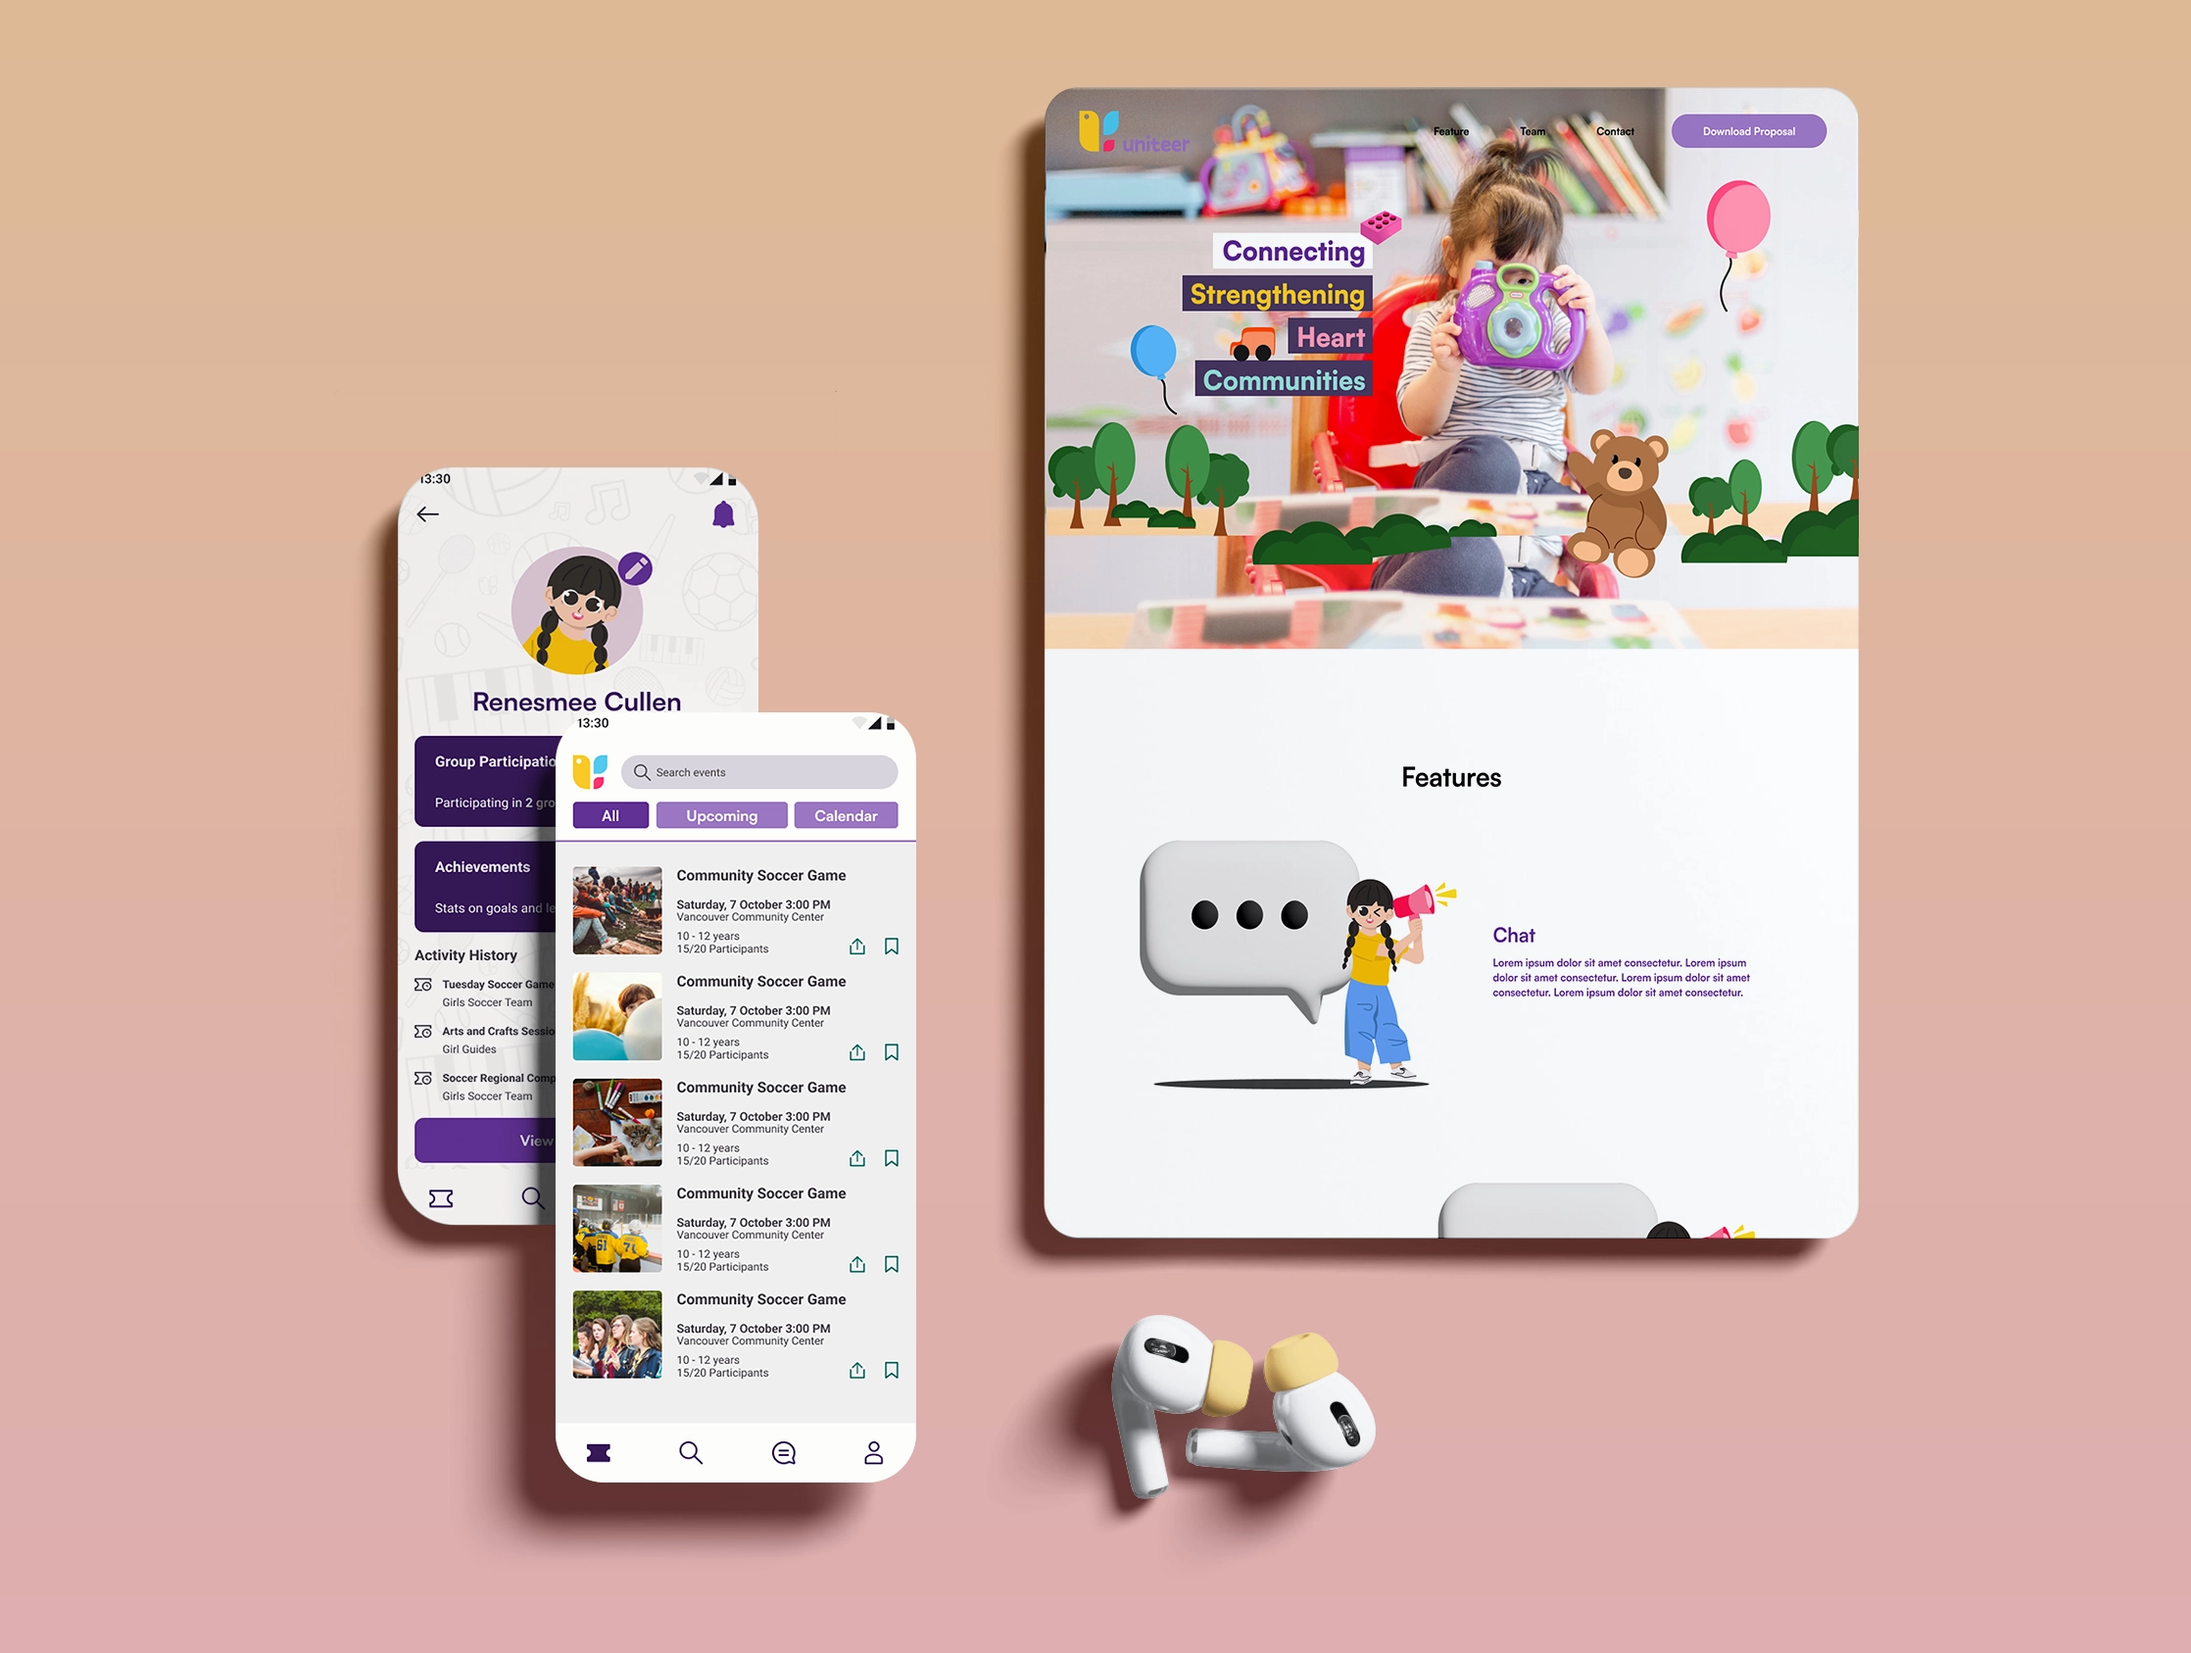
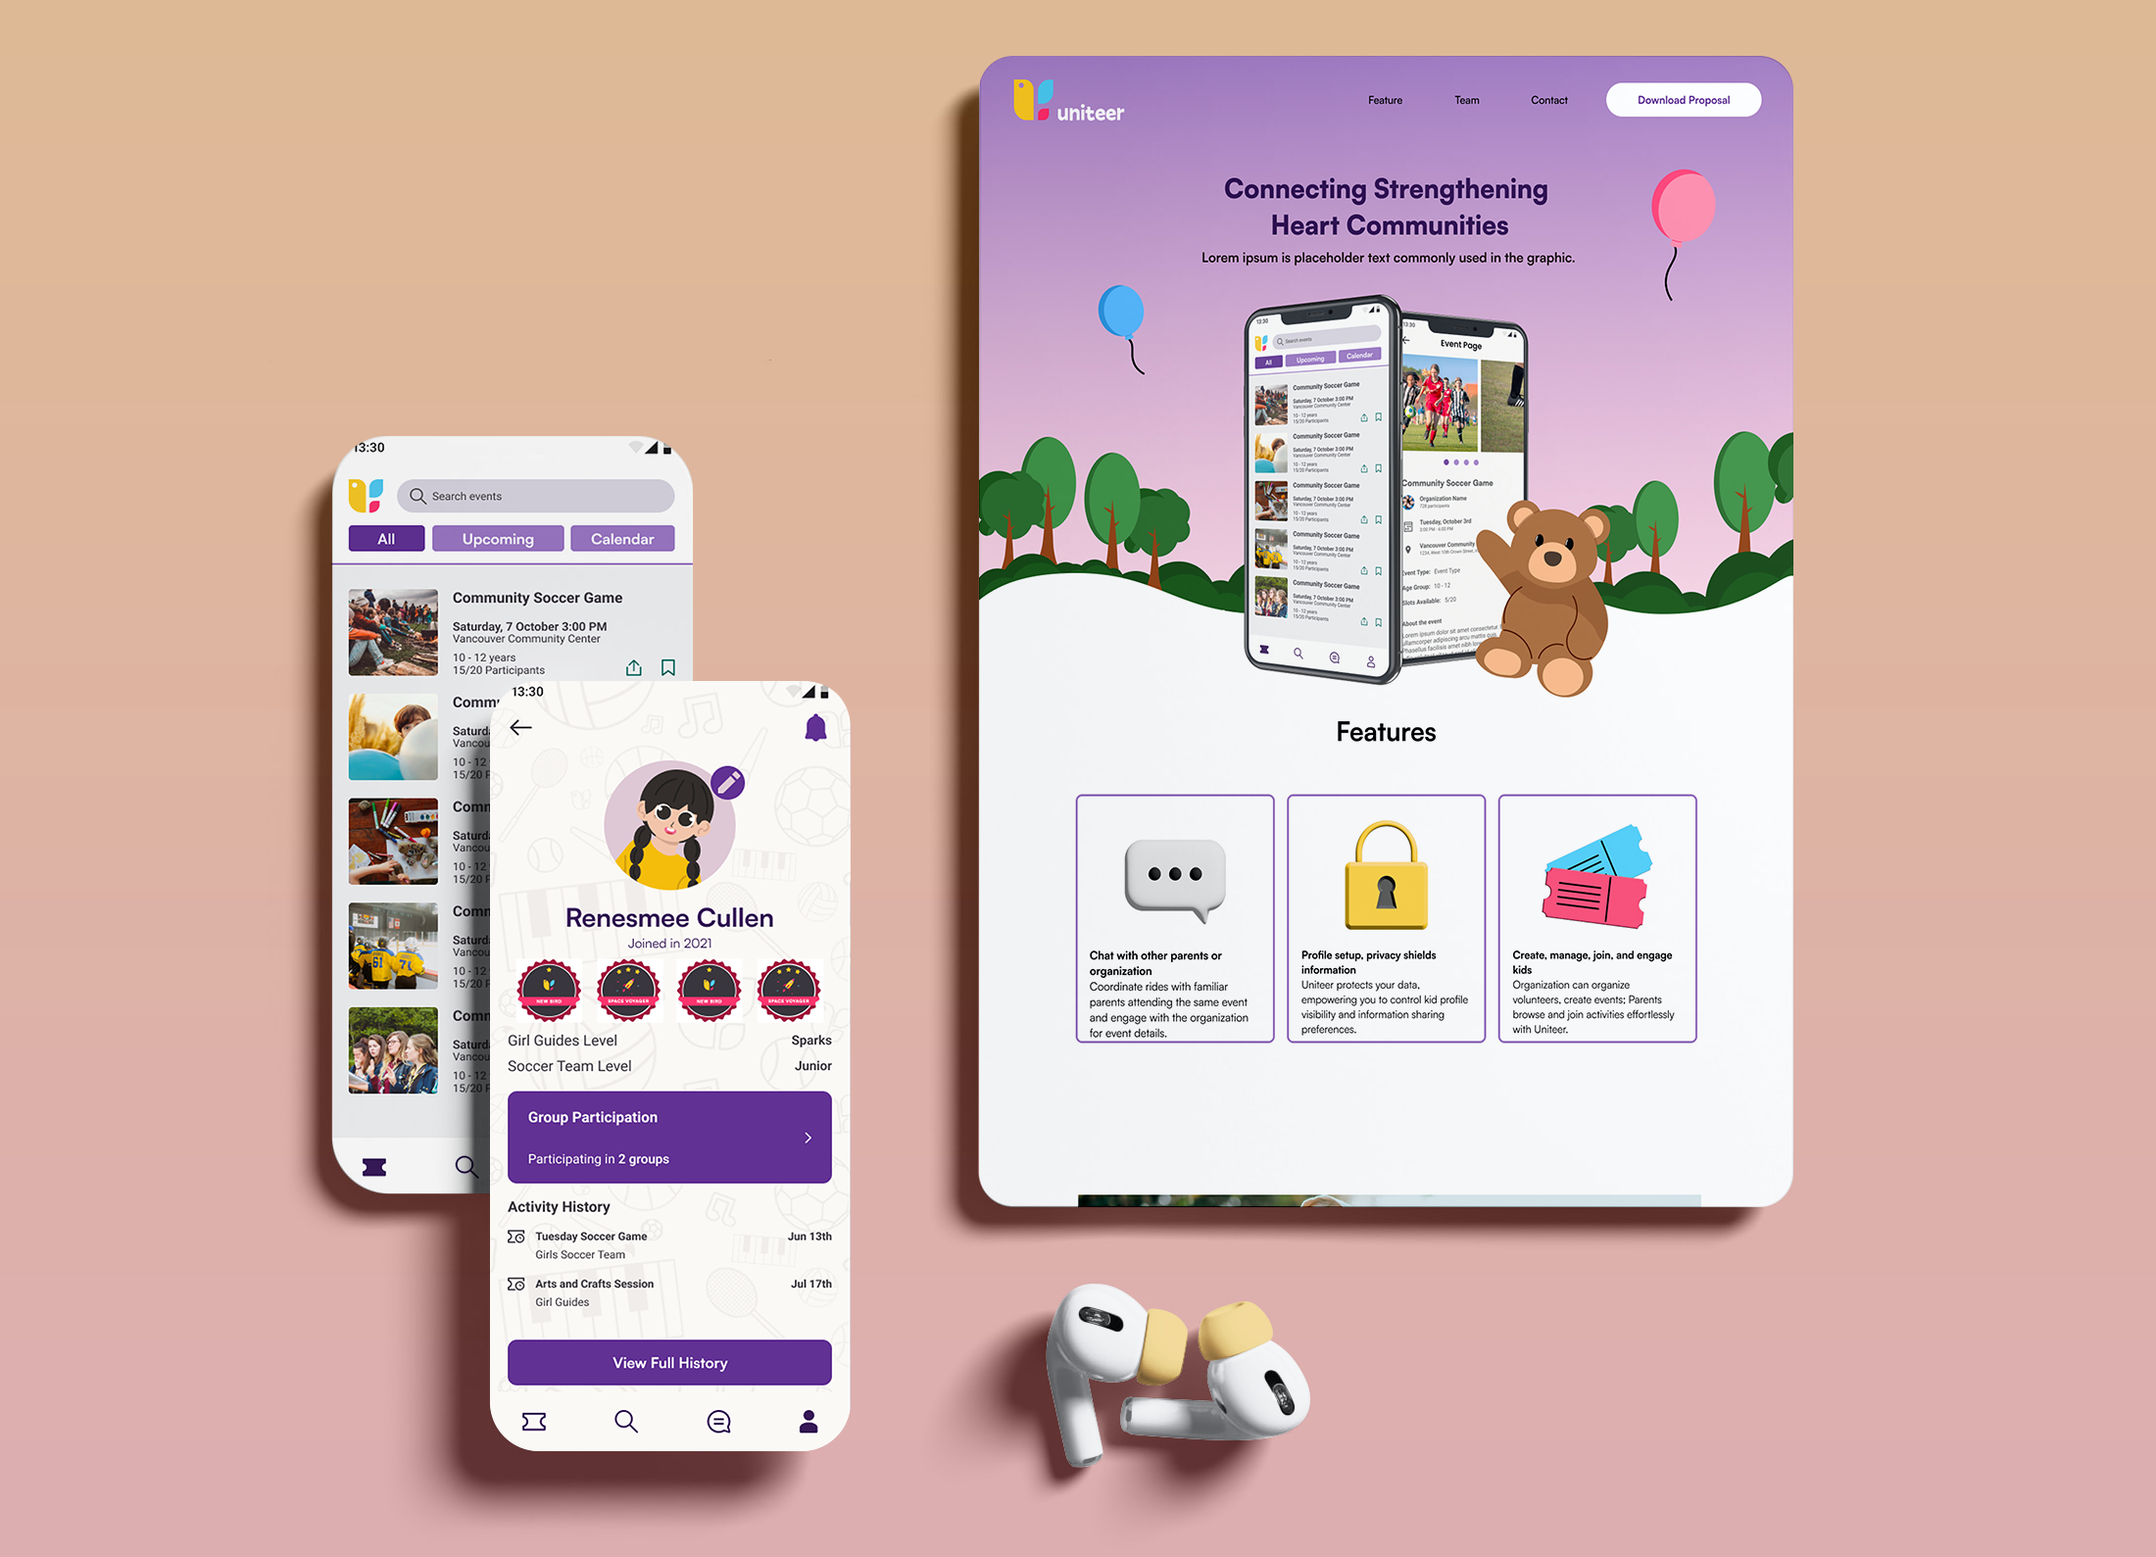
uniteer update

diff --git a/pages/project/uniteer.html b/pages/project/uniteer.html
@@ -63,12 +63,12 @@
                 <p>Uniteer is the app designed for parents and organizations to track and manage children's events and activities. Parents can not only coordinate rides with other parents but also ask for assistance when they find themselves short on time.</p>
 
                 <div class="single-project-link">
-                    <a class="proposal" href="http://www.linkedin.com/in/sze-celia-chang">
+                    <a class="proposal" href="https://acrobat.adobe.com/link/review?uri=urn:aaid:scds:US:24ae57a3-f542-3813-b125-43c1b3d469f9">
                         <i class="fa-regular fa-newspaper"></i>
                         <p>Proposal</p>
                     </a>
     
-                    <a class="proposal" href="http://uniteer.net">
+                    <a class="proposal" href="https://www.uniteer.net/">
                         <i class="fa-solid fa-link"></i>
                         <p>Promo Website</p>
                     </a>
@@ -155,9 +155,21 @@
                 <img src="../../image/single-project/project/uniteer/illustration-1.svg" alt="illustration 2">
                 <img src="../../image/single-project/project/uniteer/illustration-2.svg" alt="illustration 3">
                 <img src="../../image/single-project/project/uniteer/illustration-3.svg" alt="illustration 4">
-                <h5>Mock up</h5>
+                <h4>Mock up for Parent</h4>
             </div>
-            <img src="../../image/single-project/project/prisense/mockup.svg" alt="Mockup">
+            <img src="../../image/single-project/project/uniteer/mockup-parent.png" alt="Mockup for parents">
+            <img src="../../image/single-project/project/uniteer/mockup-parent-1.png" alt="Mockup for parents">
+            <img src="../../image/single-project/project/uniteer/mockup-parent-2.png" alt="Mockup for parents">
+
+            <div class="single-one-work">
+                <h4>Mock up for Volunteer</h4>
+            </div>
+            <img src="../../image/single-project/project/uniteer/mockup-volunteer.png" alt="Mockup for volunteers">
+
+            <div class="single-one-work">
+                <h4>Mock up for Organizations</h4>
+            </div>
+            <img src="../../image/single-project/project/uniteer/mockup-org.png" alt="Mockup for volunteers">
         <div class="single-one-work">
             <h5>Tool Used</h5>
             <div class="project-software-logo">
